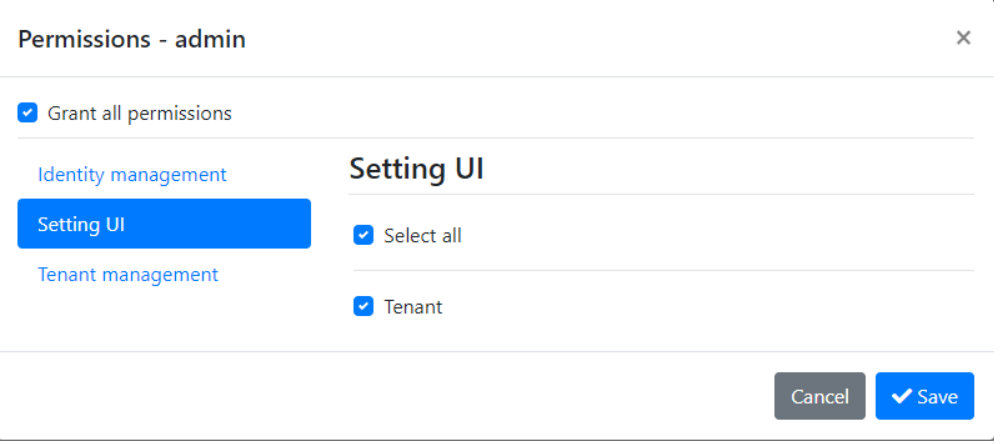
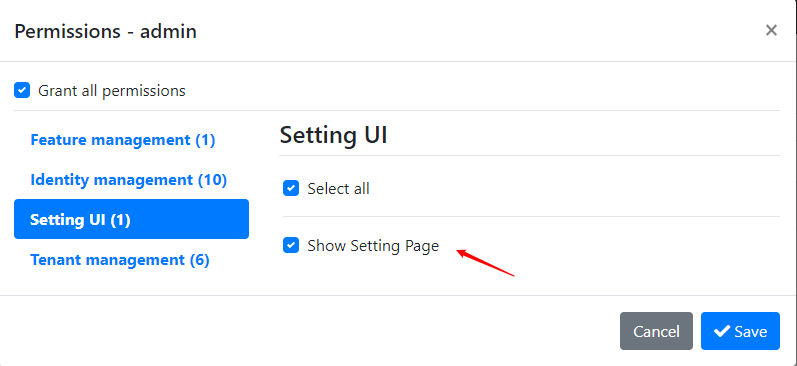
Resolved https://github.com/EasyAbp/Abp.SettingUi/issues/49

diff --git a/sample/MyAbpApp/src/MyAbpApp.Application.Contracts/Permissions/MyAbpAppPermissionDefinitionProvider.cs b/sample/MyAbpApp/src/MyAbpApp.Application.Contracts/Permissions/MyAbpAppPermissionDefinitionProvider.cs
@@ -14,12 +14,10 @@ namespace MyAbpApp.Permissions
 			//Define your own permissions here. Example:
 			//myGroup.AddPermission(MyAbpAppPermissions.MyPermission1, L("Permission:MyPermission1"));
 
-			var settingUiHostPermission = context.GetPermissionOrNull(SettingUiPermissions.Host.Default);
-			var setttingUiUserPermission = context.GetPermissionOrNull(SettingUiPermissions.User.Default);
-			var settingUiTenantPermission = context.GetPermissionOrNull(SettingUiPermissions.Tenant.Default);
-
+			var settingUiPage = context.GetPermissionOrNull(SettingUiPermissions.ShowSettingPage);  // Get ShowSettingPage permission
+			
 			// group 1
-			var systemGroup = settingUiTenantPermission.AddChild(System.Default, L("Permission:SettingUi.System"));
+			var systemGroup = settingUiPage.AddChild(System.Default, L("Permission:SettingUi.System"));
 			// group 2
 			var passwordGroup = systemGroup.AddChild(System.Password.Group2, L("Permission:SettingUi.System.Password"));
 			passwordGroup.AddChild(
@@ -32,7 +30,7 @@ namespace MyAbpApp.Permissions
 			);
 
 			// group 1
-			var settingExampleGroup = settingUiTenantPermission.AddChild(SettingExample.Default, L("Permission:SettingUi.SettingExample"));
+			var settingExampleGroup = settingUiPage.AddChild(SettingExample.Default, L("Permission:SettingUi.SettingExample"));
 			// group 2
 			var aSettings = settingExampleGroup.AddChild(SettingExample.ASettings.GroupName, L("Permission:SettingUi.SettingExample.ASettings"));
 			aSettings.AddChild(

diff --git a/docs/README_zh-Hans.md b/docs/README_zh-Hans.md
@@ -300,53 +300,56 @@ The localization resource files are under `/Localization/SettingUi` of the `Easy
 You can add more resource files to make this module support more languages. Welcome PRs :blush: .
 > For ABP's localization system, please see [the document](https://docs.abp.io/en/abp/latest/Localization)
 
-# Permissions
+# 权限
 
-SettingUi controls whether to display SettingUi's page by checking the `SettingUi.ShowSettingPage` permission.
+SettingUi通过检查`SettingUi.ShowSettingPage`权限,来控制是否显示SettingUi的页面.
 
-As long as the permission is granted, all settings in the system can be modified through SettingUi.
+只要赋予了该权限, 那么系统中所有的设置都可以通过SettingUi来修改.
 
-But sometimes, we don't want users to see certain settings in SettingUi, which can be achieved by defining specific permissions.
+但有些时候, 我们不想让用户在SettingUi中看到某些设置, 这可以通过定义特定的权限来实现这个目的.
 
-For example, if we need to hide the "system" group from users, then we need to add a child permission of `SettingUi.ShowSettingPage`, the name of the permission is `SettingUi.System`. The code is as follows:
+比如我们需要对用户隐藏"系统"分组, 那么需要在`SettingUi.ShowSettingPage`下添加一个子权限, 权限的名字为`SettingUi.System`. 代码如下:
 
 ``` csharp
 public override void Define(IPermissionDefinitionContext context)
 {
-    var settingUiPage = context.GetPermissionOrNull(SettingUiPermissions.ShowSettingPage);  // Get ShowSettingPage permission
-    var systemGroup = settingUiPage.AddChild("SettingUi.System", L("Permission:SettingUi.System")); // Add display permission of Group1: System
+    var settingUiPage = context.GetPermissionOrNull(SettingUiPermissions.ShowSettingPage);  // 取得ShowSettingPage权限
+    var systemGroup = settingUiPage.AddChild("SettingUi.System", L("Permission:SettingUi.System")); // 添加控制 Group1: System 的权限
 }
 ```
 
-In this way, when SettingUi enumerates the settings, if a permission in the form of `SettingUi.Group1` is found, the Group1 will only be displayed after the permission is explicitly granted.
+这样当SettingUi遍历设置时, 如果发现有`SettingUi.Group1`形式的权限, 则只有显式的赋予该权限后, 分组Group1才会显示.
 
-We can continue to add permissions to control Group2, such as "System" -> "Password" group, we need to add a permission with the Group2 name as the suffix, the code is as follows:
-``` csharp
-public override void Define(IPermissionDefinitionContext context)
-{
-    ...
-    var passwordGroup = systemGroup.AddChild("SettingUi.System.Password", L("Permission:SettingUi.System.Password"));   // Add display permission of Group2: Password
-}
-```
+我们可以继续添加对Group2控制的权限, 如"系统" -> "密码"分组, 需要继续添加后缀为Group2的权限, 代码如下:
 
-In this way, when SettingUi enumerates the settings, if a permission in the form of `SettingUi.Group1.Group2` is found, the Group2 in Group1 will only be displayed after the permission is explicitly granted.
-
-Of course, we can also continue to add a permission to precisely control a specified setting, such as "System" -> "Password" -> "Required Length", we need to add a permission with the setting name as the suffix, the code is as follows:
 ``` csharp
 public override void Define(IPermissionDefinitionContext context)
 {
     ...
-    var requiredLength = passwordGroup.AddChild("SettingUi.System.Password.Abp.Identity.Password.RequiredLength", L("Permission:SettingUi.System.Password.RequiredLength"));    // Add display permission of Abp.Identity.Password.RequiredLength
+    var passwordGroup = systemGroup.AddChild("SettingUi.System.Password", L("Permission:SettingUi.System.Password"));   // 添加控制 Group2: Password 的权限
 }
 ```
 
-In this way, when SettingUi enumerates the settings, if a permission in the form of `SettingUi.Group1.Group2.SettingName` is found, the setting in Group2 in Group1 will only be displayed after the permission is explicitly granted.
+这样当SettingUi遍历设置时, 如果发现有`SettingUi.Group1.Group2`形式的权限, 则只有显示的赋予该权限后, 分组Group1中的Group2才会显示.
+
+当然, 我们也可继续添加精确控制某一设置的权限, 如"系统" -> "密码" -> "要求长度", 需要继续添加后缀为设置名称的权限, 代码如下:
+``` csharp
+public override void Define(IPermissionDefinitionContext context)
+{
+    ...
+    var requiredLength = passwordGroup.AddChild("SettingUi.System.Password.Abp.Identity.Password.RequiredLength", L("Permission:SettingUi.System.Password.RequiredLength"));    // 添加控制设置Abp.Identity.Password.RequiredLength的权限
+}
+```
+
+这样当SettingUi遍历设置时, 如果发现有`SettingUi.Group1.Group2.SettingName`形式的权限, 则只有显示的赋予该权限后, 分组Group1中的Group2中的SettingName才会显示.
 
 
-Through the above three-level permission definition way, we can arbitrarily control the display of settings in SettingUi.
+通过以上3级的权限定义方式, 我们就可以在SettingUi中任意控制设置的显示了.
 
-The following figure is a screenshot of Setting Ui permissions, and the displayed result:
+下图是Setting Ui权限的截图, 和显示的结果:
 
 ![setting_permission](/docs/images/setting_permission.png)
 
-> For ABP's permission system, please see [the document](https://docs.abp.io/en/abp/latest/Authorization)
+> 关于ABP中权限系统, 请参见[该文档](https://docs.abp.io/en/abp/latest/Authorization)
+
+
